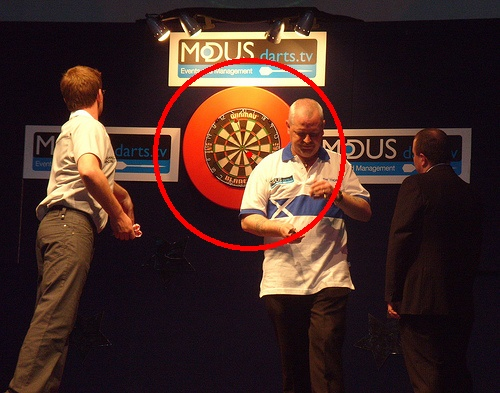
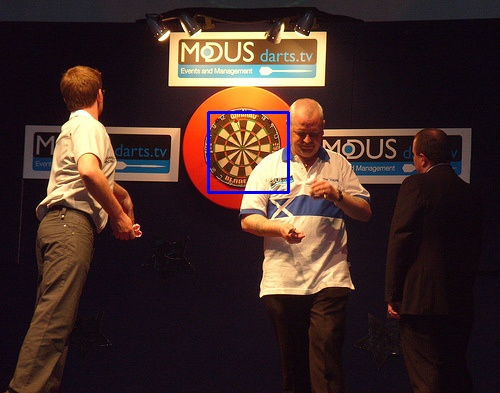
Changed circles to bounding boxes, RTFQ..

Changed region(s): [[0.3, 0.1221, 0.72, 0.6412], [0.39, 0.2748, 0.6, 0.5191], [0.48, 0.3664, 0.51, 0.3969]]

diff --git a/Assignment/task3/task.cpp b/Assignment/task3/task.cpp
@@ -20,9 +20,12 @@ using namespace std;
 /** Global variables */
 CascadeClassifier cascade;
 
+//struct DartBoard {
+//    Point2f center;
+//    int radius;
+//};
 struct DartBoard {
-    Point2f center;
-    int radius;
+    Rect bounding_box;
 };
 
 struct CircleDetection {
@@ -38,6 +41,7 @@ class Detector {
         vector<Rect> viola_hits;
         vector<DartBoard> dartboards;
         void deduplicate_hits();
+        bool contains(Rect, Rect);
     public:
         Mat image, overlay_image, detections_image;
         int read_image (char*);
@@ -52,6 +56,7 @@ class Detector {
         void write_image_mag(String);
         void write_overlay_image(String);
         void write_detections_image(String);
+        void equalize_hist();
 };
 
 Mat Detector::convolve (Mat kernel) {
@@ -337,8 +342,8 @@ void Detector::combineDectections() {
             continue;
         }
 
-        float avx, avy, radius;
-        avx = avy = radius = 0;
+        float avx, avy, avwidth, avheight;
+        avx = avy = avwidth = avheight = 0;
 
         for (line_hit = line_score.begin(); line_hit != line_score.end(); ++line_hit) {
             avx += line_hit->x;
@@ -347,16 +352,20 @@ void Detector::combineDectections() {
         for (circle_hit = circle_score.begin(); circle_hit != circle_score.end(); ++circle_hit) {
             avx += circle_hit->center.x;
             avy += circle_hit->center.y;
-            radius += circle_hit->radius;
+            avwidth += (circle_hit->radius * 2);
+            avheight += (circle_hit->radius * 2);
         }
 
         avx = avx / (line_score.size() + circle_score.size());
         avy = avy / (line_score.size() + circle_score.size());
-        radius = (viola->width + viola->height + radius) / (2 + circle_score.size());
+        avwidth = (viola->width + avwidth) / (circle_score.size() + 1);
+        avheight = (viola->height + avheight) / (circle_score.size() + 1);
 
         DartBoard dartboard;
-        dartboard.center = {avx, avy};
-        dartboard.radius = radius;
+        dartboard.bounding_box.x = avx - (avwidth / 2);
+        dartboard.bounding_box.y = avy - (avheight / 2);
+        dartboard.bounding_box.width = avwidth;
+        dartboard.bounding_box.height = avheight;
         dartboards.push_back(dartboard);
     }
 
@@ -370,11 +379,7 @@ void Detector::deduplicate_hits() {
     //Loop till clone is empty
         //Loop through clone, find largest, remove.
         //Loop through clone, find all that are smaller, remove and average them -> add to new set
-
-    //struct DartBoard {
-    //    Point center;
-    //    int radius;
-    //};
+    //Use new deduplicated set
 
     vector<DartBoard>dartboards_clone = dartboards;
     vector<DartBoard>deduplicated_hits;
@@ -382,30 +387,28 @@ void Detector::deduplicate_hits() {
     DartBoard largest;
 
     while (dartboards_clone.size() > 0) {
-        //int index = 0;
         float distance;
-        float avx, avy, avradius;
+        float avx, avy, avwidth, avheight;
         int sum_duplicates = 1;
 
         largest = dartboards_clone.back();
-        avx = largest.center.x;
-        avy = largest.center.y;
-        avradius = largest.radius;
+        avx = largest.bounding_box.x;
+        avy = largest.bounding_box.y;
+        avwidth = largest.bounding_box.width;
+        avheight = largest.bounding_box.height;
         dartboards_clone.erase(dartboards_clone.end() -1);
 
-        //for (dartboard = dartboards_clone.begin(); dartboard != dartboards_clone.end(); ++dartboard) {
         for(unsigned index = dartboards_clone.size(); index-- > 0;) {
 
             dartboard = dartboards_clone.at(index);
 
-            distance = sqrt((pow((dartboard.center.x - largest.center.x), 2) + pow((dartboard.center.y - largest.center.y), 2)));
-
             //if dis < dartboard radius, dartboard larger, av, remove
-            if (distance < dartboard.radius) {
+            if (contains(dartboard.bounding_box, largest.bounding_box)) {
                 sum_duplicates++;
-                avx += dartboard.center.x;
-                avy += dartboard.center.y;
-                avradius += dartboard.radius;
+                avx += dartboard.bounding_box.x;
+                avy += dartboard.bounding_box.y;
+                avwidth += dartboard.bounding_box.width;
+                avheight += dartboard.bounding_box.height;
 
                 largest = dartboard;
                 dartboards_clone.erase(dartboards_clone.begin() + index);
@@ -413,27 +416,36 @@ void Detector::deduplicate_hits() {
             }
 
             //if dis < largest radius, largest larger, av  remove
-            if (distance <= largest.radius) {
+            if (contains(largest.bounding_box, dartboard.bounding_box)) {
                 sum_duplicates++;
-                avx += largest.center.x;
-                avy += largest.center.y;
-                avradius += largest.radius;
+                avx += dartboard.bounding_box.x;
+                avy += dartboard.bounding_box.y;
+                avwidth += dartboard.bounding_box.width;
+                avheight += dartboard.bounding_box.height;
 
                 dartboards_clone.erase(dartboards_clone.begin() + index);
                 continue;
             }
         }
 
-        dartboard.radius = avradius / sum_duplicates;
-        dartboard.center.x = avx / sum_duplicates;
-        dartboard.center.y = avy / sum_duplicates;
+        dartboard.bounding_box.x = avx / sum_duplicates;
+        dartboard.bounding_box.y = avy / sum_duplicates;
+        dartboard.bounding_box.width = avwidth / sum_duplicates;
+        dartboard.bounding_box.height = avheight / sum_duplicates;
         deduplicated_hits.push_back(dartboard);
     }
 
     dartboards = deduplicated_hits;
 
-
     return;
+}
+
+bool Detector::contains(Rect outer, Rect inner) {
+    if (outer.x <= inner.x && outer.y <= inner.y && (outer.x + outer.width) >= (inner.x + inner.width) && (outer.y + outer.height) >= (inner.y + inner.height)) {
+        return true;
+    }
+
+    return false;
 }
 
 int Detector::read_image (char* path) {
@@ -466,7 +478,12 @@ void Detector::write_image_mag(String path) {
 
 void Detector::convert_grey() {
     cvtColor(image, grey, CV_BGR2GRAY);
-    //equalizeHist(grey, grey);
+
+    return;
+}
+
+void Detector::equalize_hist() {
+    equalizeHist(grey, grey);
 
     return;
 }
@@ -480,8 +497,7 @@ void Detector::write_overlay_image(String path) {
 void Detector::write_detections_image(String path) {
     vector<DartBoard>::iterator dartboard;
     for (dartboard = dartboards.begin(); dartboard != dartboards.end(); ++dartboard) {
-        circle(detections_image, dartboard->center, 3, Scalar(0,0,255), -1, 8, 0 );
-        circle(detections_image, dartboard->center, dartboard->radius, Scalar(0,0,255), 3, 8, 0 );
+	    rectangle(detections_image, Point(dartboard->bounding_box.x, dartboard->bounding_box.y), Point(dartboard->bounding_box.x + dartboard->bounding_box.width, dartboard->bounding_box.y + dartboard->bounding_box.height), Scalar( 255, 0, 0 ), 2);
     }
 
     imwrite(path, detections_image);
@@ -506,8 +522,9 @@ int main( int argc, char** argv ) {
     detector.convert_grey();
 
     detector.sobel();
-    detector.houghTransformLine();
     detector.houghTransformCircle();
+    detector.houghTransformLine();
+    detector.equalize_hist();
     detector.violaJones();
 
     detector.combineDectections();
